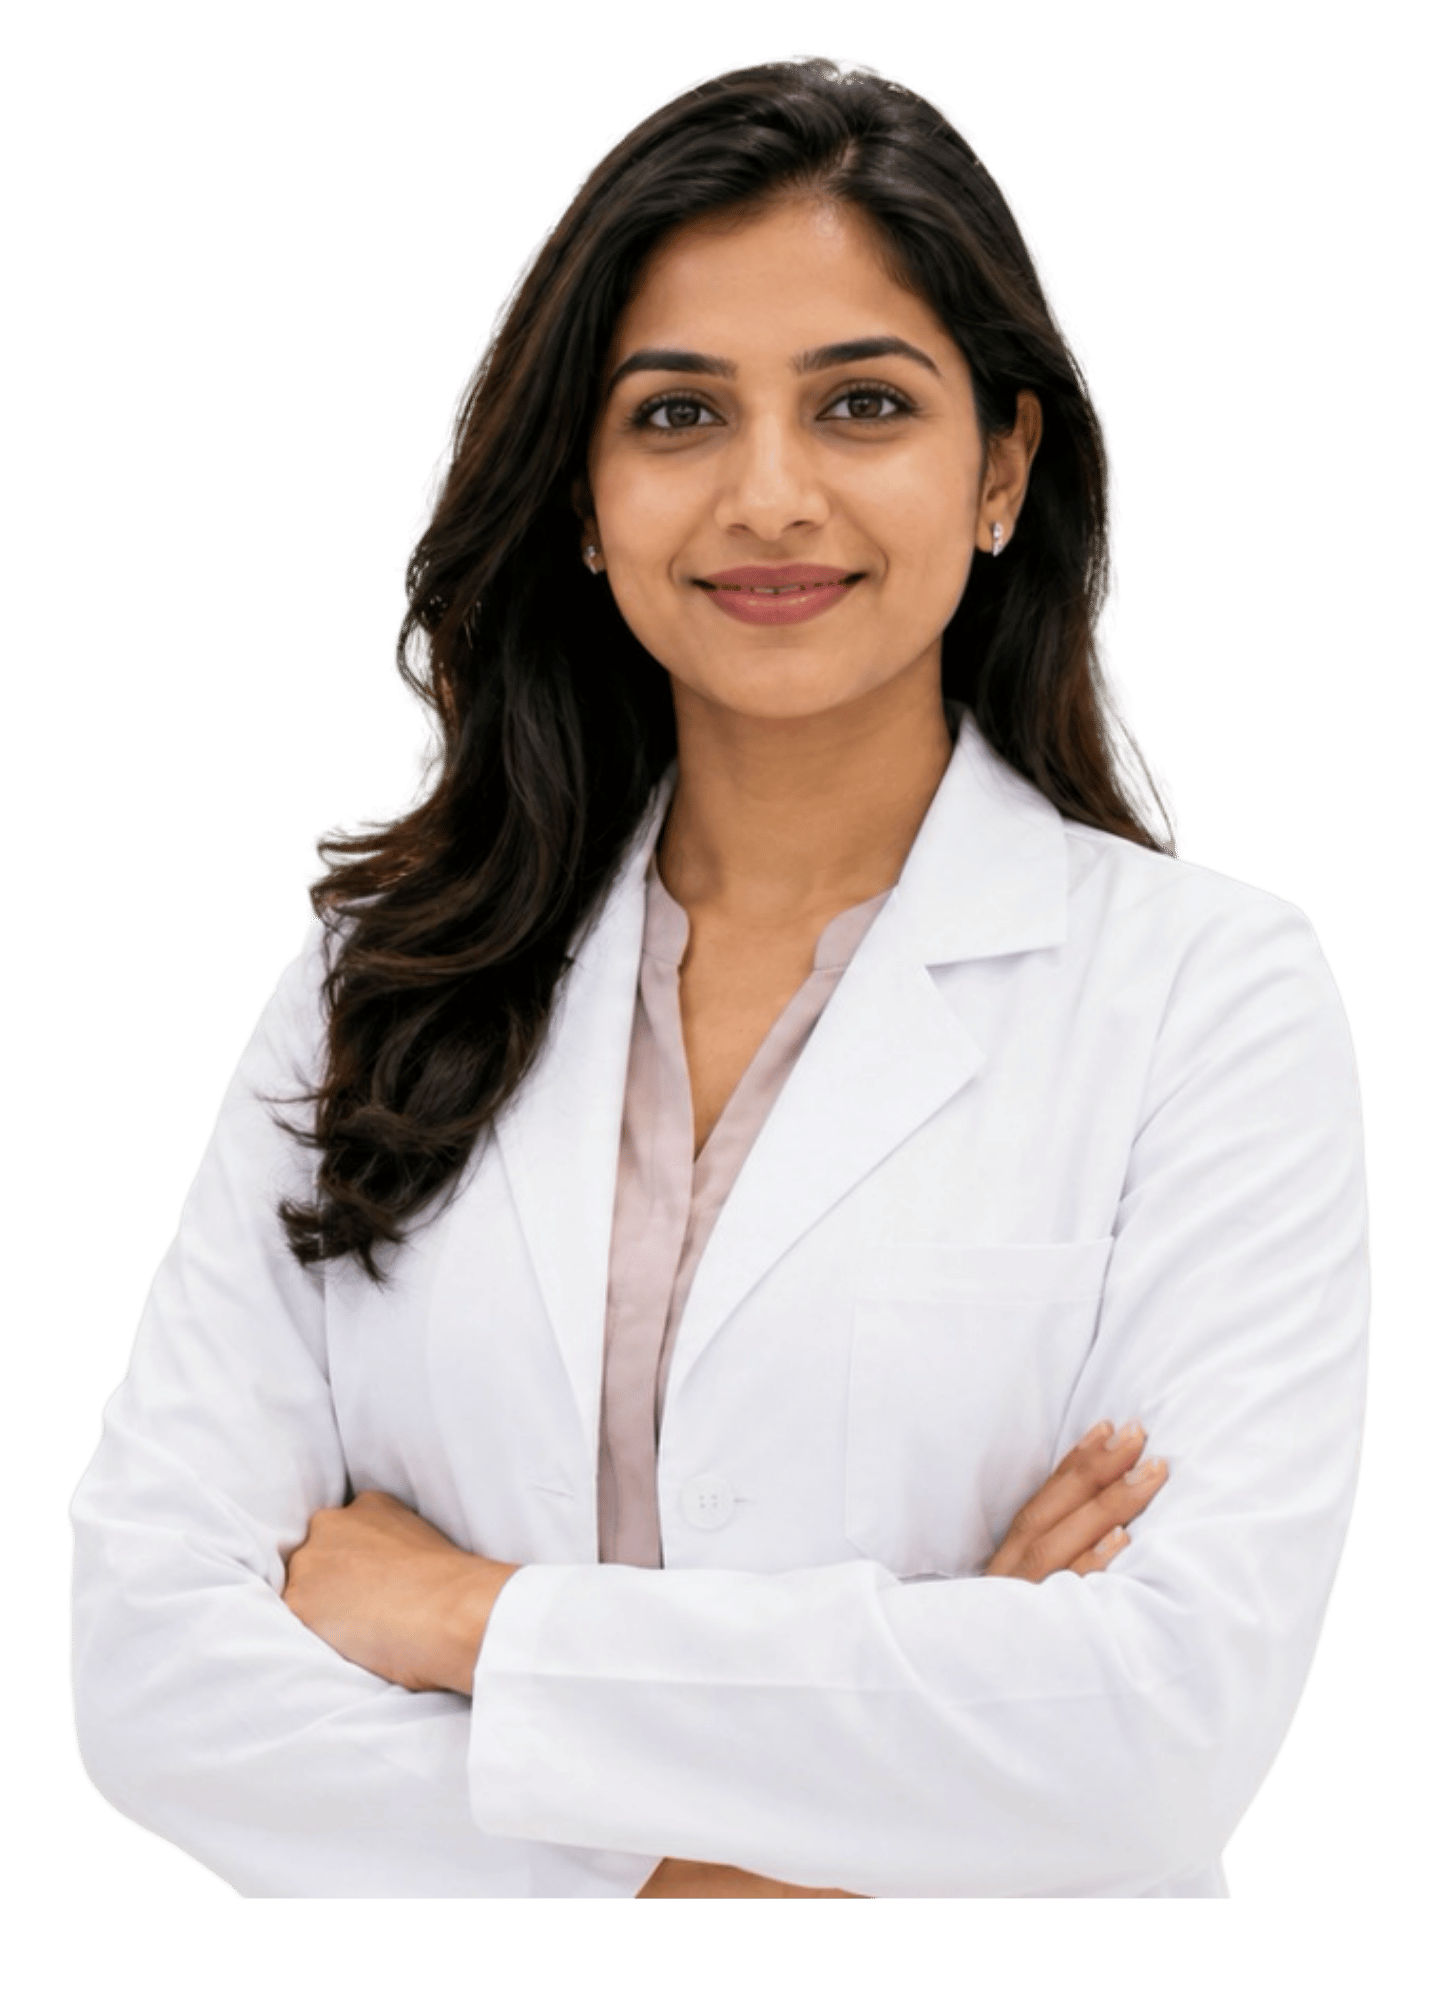
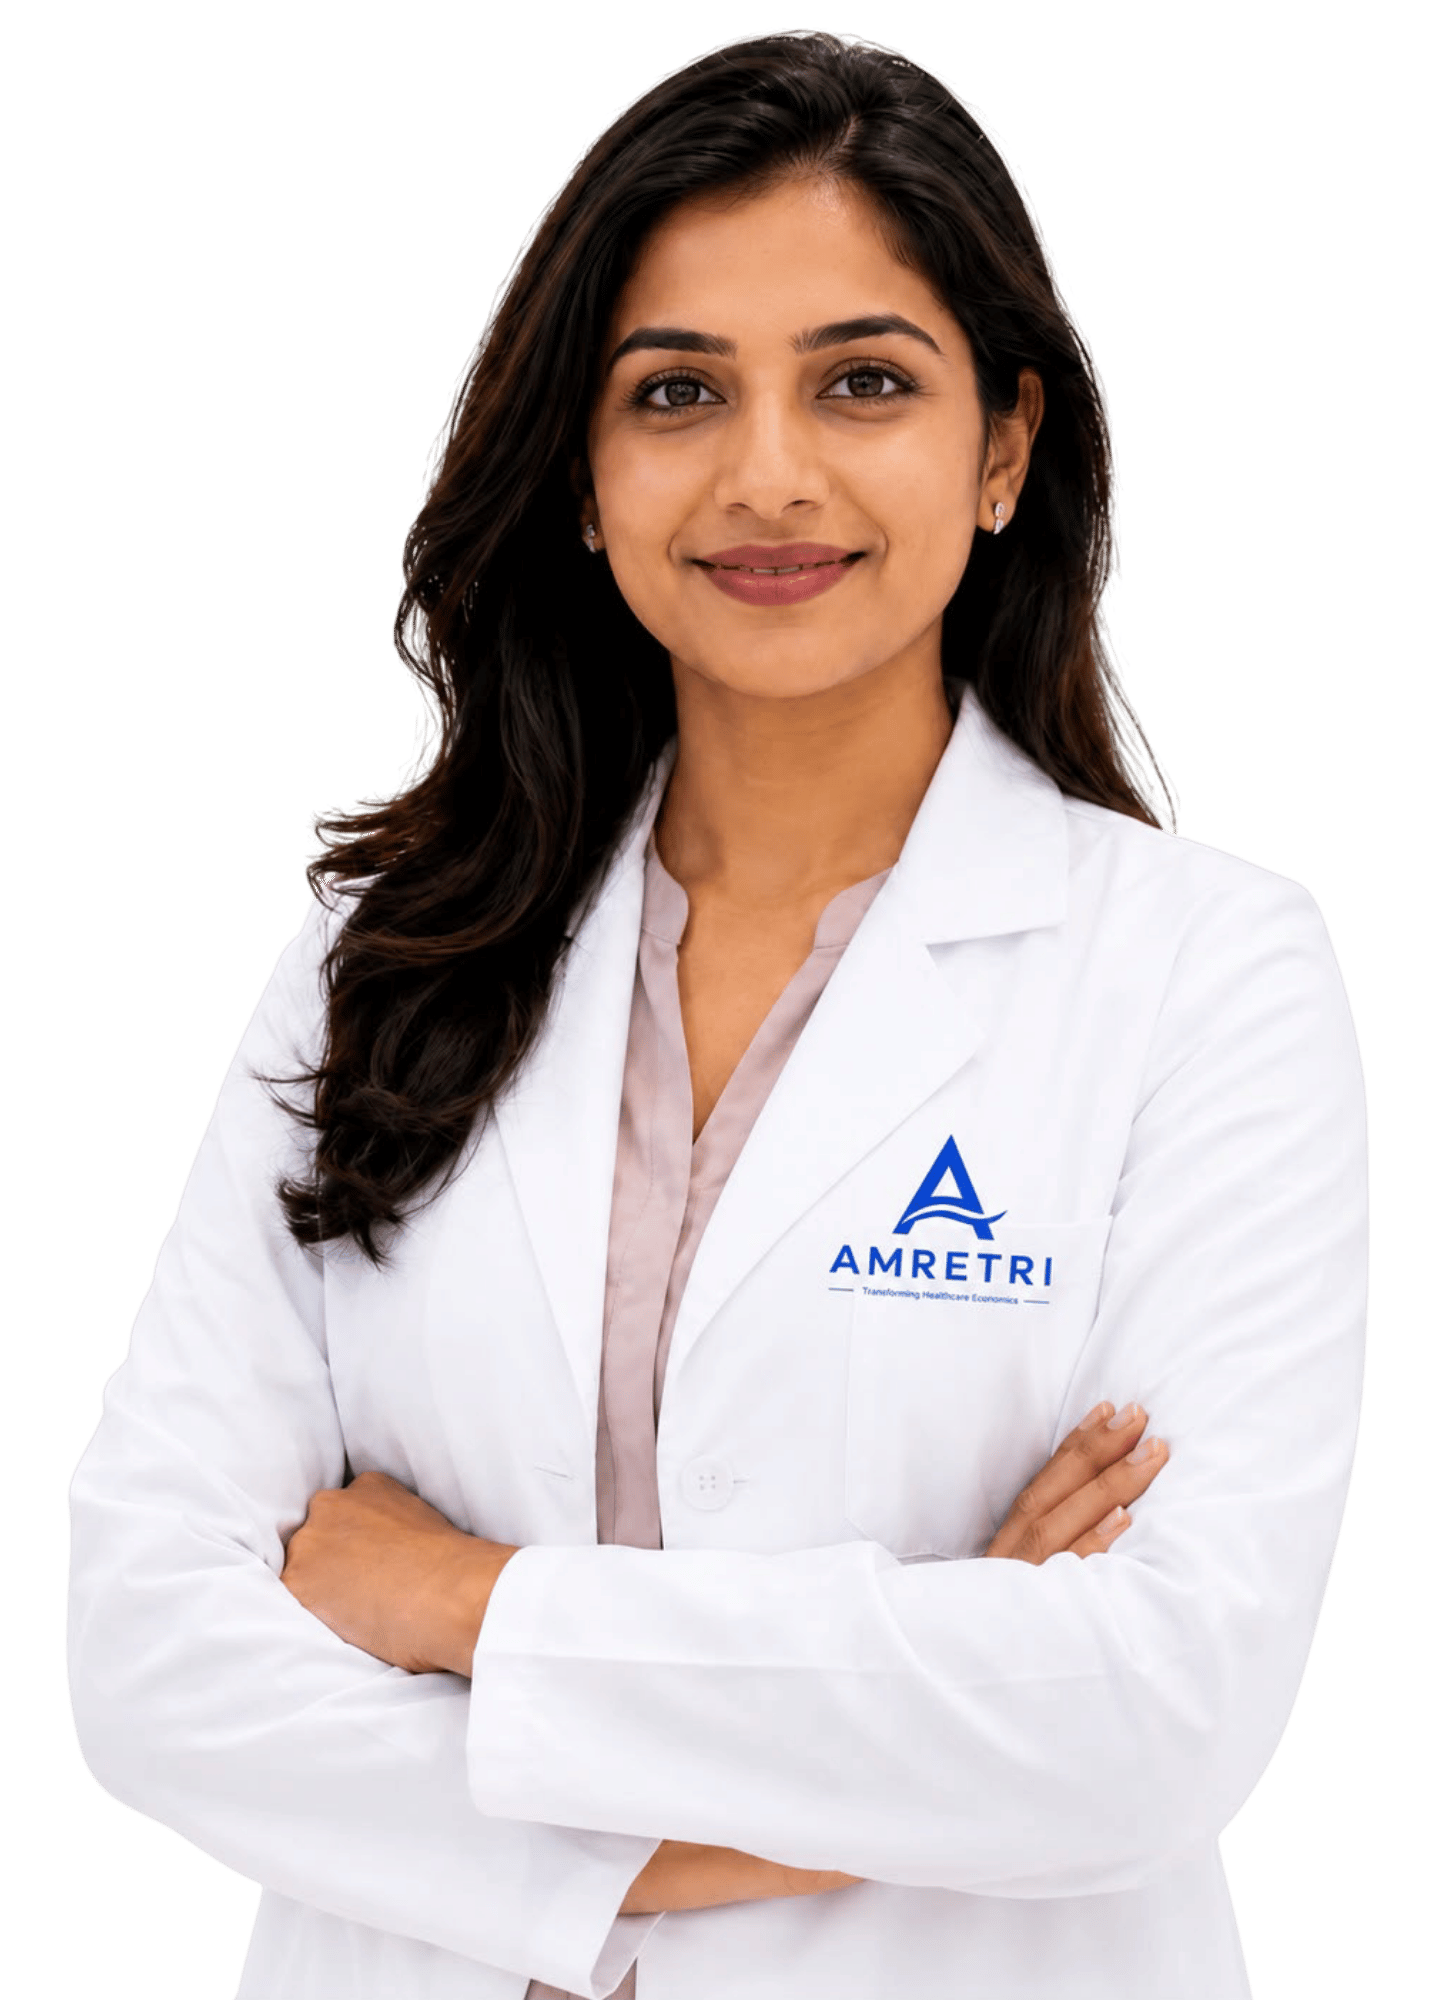
add animation and fix mobile view

diff --git a/src/routes/hospital-pharmacy-acquisition-management-services.tsx b/src/routes/hospital-pharmacy-acquisition-management-services.tsx
@@ -337,7 +337,12 @@ function PharmacyServicesPage() {
           {/* Problems Bento Grid */}
           <div className="mt-16 grid gap-6 md:grid-cols-2 lg:grid-cols-3">
             {problemsAndSolutions.map((item, idx) => (
-              <Reveal key={idx} variant="up" className="flex flex-col justify-between rounded-3xl border border-border bg-card p-6 shadow-sm hover:shadow-md transition">
+              <Reveal
+                key={idx}
+                delay={(idx % 3) * 80}
+                variant={idx % 3 === 0 ? "left" : idx % 3 === 1 ? "scale" : "right"}
+                className="flex flex-col justify-between rounded-3xl border border-border bg-card p-6 shadow-sm hover:shadow-md transition"
+              >
                 <div>
                   <div className="flex items-center gap-3">
                     <span className="grid h-10 w-10 place-items-center rounded-xl bg-rose-50 text-rose-500">
@@ -394,14 +399,21 @@ function PharmacyServicesPage() {
 
             {/* Right Services Grid */}
             <div className="lg:col-span-7">
-              <Reveal variant="right" className="grid gap-6 sm:grid-cols-2">
+              <div className="grid gap-6 sm:grid-cols-2">
                 {services.map((s, idx) => (
-                  <div key={idx} className="rounded-2xl border border-border bg-secondary/20 p-5 hover:bg-secondary/40 transition">
-                    <h3 className="text-sm font-bold text-ink">{s.title}</h3>
-                    <p className="mt-2 text-xs leading-relaxed text-ink-soft">{s.desc}</p>
-                  </div>
+                  <Reveal
+                    key={idx}
+                    delay={(idx % 2) * 80}
+                    variant={idx % 2 === 0 ? "left" : "right"}
+                    className="rounded-2xl border border-border bg-secondary/20 p-5 hover:bg-secondary/40 transition flex flex-col justify-between"
+                  >
+                    <div>
+                      <h3 className="text-sm font-bold text-ink">{s.title}</h3>
+                      <p className="mt-2 text-xs leading-relaxed text-ink-soft">{s.desc}</p>
+                    </div>
+                  </Reveal>
                 ))}
-              </Reveal>
+              </div>
             </div>
 
           </div>
@@ -422,7 +434,12 @@ function PharmacyServicesPage() {
           {/* Timeline steps */}
           <div className="mt-16 grid gap-8 md:grid-cols-2 lg:grid-cols-3 xl:grid-cols-4">
             {steps.map((st, idx) => (
-              <Reveal key={idx} variant="up" className="relative flex flex-col justify-between rounded-3xl border border-white/10 bg-white/5 p-6 hover:bg-white/10 transition">
+              <Reveal
+                key={idx}
+                delay={(idx % 4) * 80}
+                variant={idx % 2 === 0 ? "left" : "right"}
+                className="relative flex flex-col justify-between rounded-3xl border border-white/10 bg-white/5 p-6 hover:bg-white/10 transition"
+              >
                 <div>
                   <span className="inline-block rounded-lg bg-brand px-2.5 py-1 text-xs font-bold tracking-wider text-white uppercase">
                     Phase 0{idx + 1}
@@ -654,17 +671,24 @@ function PharmacyServicesPage() {
               { label: "Hospital Pharmacy Compliance & Audit Services", href: "#proposal-form" },
               { label: "Hospital Pharmacy Consulting & Profit Improvement Services", href: "#proposal-form" }
             ].map((link, idx) => (
-              <a
+              <Reveal
                 key={idx}
-                href={link.href}
-                className="flex flex-col justify-between rounded-2xl border border-border bg-card p-5 shadow-sm transition hover:shadow-md hover:border-brand/35 hover:scale-[1.02]"
+                delay={(idx % 5) * 80}
+                variant={idx % 3 === 0 ? "left" : idx % 3 === 1 ? "scale" : "right"}
+                className="flex"
               >
-                <span className="text-ink leading-snug">{link.label}</span>
-                <span className="mt-4 inline-flex items-center justify-center gap-1 text-[11px] text-brand font-bold uppercase tracking-wider">
-                  Learn More
-                  <ArrowUpRight className="h-3 w-3" />
-                </span>
-              </a>
+                <a
+                  key={idx}
+                  href={link.href}
+                  className="flex w-full flex-col justify-between rounded-2xl border border-border bg-card p-5 shadow-sm transition hover:shadow-md hover:border-brand/35 hover:scale-[1.02]"
+                >
+                  <span className="text-ink leading-snug">{link.label}</span>
+                  <span className="mt-4 inline-flex items-center justify-center gap-1 text-[11px] text-brand font-bold uppercase tracking-wider">
+                    Learn More
+                    <ArrowUpRight className="h-3 w-3" />
+                  </span>
+                </a>
+              </Reveal>
             ))}
           </div>
         </div>

diff --git a/src/routes/__root.tsx b/src/routes/__root.tsx
@@ -7,7 +7,8 @@ import {
   HeadContent,
   Scripts,
 } from "@tanstack/react-router";
-import { type ReactNode } from "react";
+import { useEffect, type ReactNode } from "react";
+import Lenis from "lenis";
 
 import appCss from "../styles.css?url";
 
@@ -116,6 +117,35 @@ function RootShell({ children }: { children: ReactNode }) {
 
 function RootComponent() {
   const { queryClient } = Route.useRouteContext();
+
+  useEffect(() => {
+    // Initialize Lenis smooth scroll on client side
+    const lenis = new Lenis({
+      duration: 1.1,
+      easing: (t) => Math.min(1, 1.001 - Math.pow(2, -10 * t)), // easeOutExpo
+      orientation: "vertical",
+      gestureOrientation: "vertical",
+      smoothWheel: true,
+      wheelMultiplier: 1.05,
+    });
+
+    let rafId: number;
+    function raf(time: number) {
+      lenis.raf(time);
+      rafId = requestAnimationFrame(raf);
+    }
+    rafId = requestAnimationFrame(raf);
+
+    // Sync scroll restoration
+    if ("scrollRestoration" in window.history) {
+      window.history.scrollRestoration = "manual";
+    }
+
+    return () => {
+      cancelAnimationFrame(rafId);
+      lenis.destroy();
+    };
+  }, []);
 
   return (
     <QueryClientProvider client={queryClient}>

diff --git a/src/routeTree.gen.ts b/src/routeTree.gen.ts
@@ -9,8 +9,15 @@
 // Additionally, you should also exclude this file from your linter and/or formatter to prevent it from being checked or modified.
 
 import { Route as rootRouteImport } from './routes/__root'
+import { Route as HospitalPharmacyAcquisitionManagementServicesRouteImport } from './routes/hospital-pharmacy-acquisition-management-services'
 import { Route as IndexRouteImport } from './routes/index'
 
+const HospitalPharmacyAcquisitionManagementServicesRoute =
+  HospitalPharmacyAcquisitionManagementServicesRouteImport.update({
+    id: '/hospital-pharmacy-acquisition-management-services',
+    path: '/hospital-pharmacy-acquisition-management-services',
+    getParentRoute: () => rootRouteImport,
+  } as any)
 const IndexRoute = IndexRouteImport.update({
   id: '/',
   path: '/',
@@ -19,28 +26,39 @@ const IndexRoute = IndexRouteImport.update({
 
 export interface FileRoutesByFullPath {
   '/': typeof IndexRoute
+  '/hospital-pharmacy-acquisition-management-services': typeof HospitalPharmacyAcquisitionManagementServicesRoute
 }
 export interface FileRoutesByTo {
   '/': typeof IndexRoute
+  '/hospital-pharmacy-acquisition-management-services': typeof HospitalPharmacyAcquisitionManagementServicesRoute
 }
 export interface FileRoutesById {
   __root__: typeof rootRouteImport
   '/': typeof IndexRoute
+  '/hospital-pharmacy-acquisition-management-services': typeof HospitalPharmacyAcquisitionManagementServicesRoute
 }
 export interface FileRouteTypes {
   fileRoutesByFullPath: FileRoutesByFullPath
-  fullPaths: '/'
+  fullPaths: '/' | '/hospital-pharmacy-acquisition-management-services'
   fileRoutesByTo: FileRoutesByTo
-  to: '/'
-  id: '__root__' | '/'
+  to: '/' | '/hospital-pharmacy-acquisition-management-services'
+  id: '__root__' | '/' | '/hospital-pharmacy-acquisition-management-services'
   fileRoutesById: FileRoutesById
 }
 export interface RootRouteChildren {
   IndexRoute: typeof IndexRoute
+  HospitalPharmacyAcquisitionManagementServicesRoute: typeof HospitalPharmacyAcquisitionManagementServicesRoute
 }
 
 declare module '@tanstack/react-router' {
   interface FileRoutesByPath {
+    '/hospital-pharmacy-acquisition-management-services': {
+      id: '/hospital-pharmacy-acquisition-management-services'
+      path: '/hospital-pharmacy-acquisition-management-services'
+      fullPath: '/hospital-pharmacy-acquisition-management-services'
+      preLoaderRoute: typeof HospitalPharmacyAcquisitionManagementServicesRouteImport
+      parentRoute: typeof rootRouteImport
+    }
     '/': {
       id: '/'
       path: '/'
@@ -53,6 +71,8 @@ declare module '@tanstack/react-router' {
 
 const rootRouteChildren: RootRouteChildren = {
   IndexRoute: IndexRoute,
+  HospitalPharmacyAcquisitionManagementServicesRoute:
+    HospitalPharmacyAcquisitionManagementServicesRoute,
 }
 export const routeTree = rootRouteImport
   ._addFileChildren(rootRouteChildren)

diff --git a/src/styles.css b/src/styles.css
@@ -249,3 +249,24 @@
   .hover-tilt:hover,
   .hover-glow:hover { transform: none; box-shadow: none; }
 }
+
+/* Lenis smooth scrolling rules */
+html.lenis, html.lenis body {
+  height: auto;
+}
+
+.lenis.lenis-smooth {
+  scroll-behavior: auto !important;
+}
+
+.lenis.lenis-smooth [data-lenis-prevent] {
+  overscroll-behavior: contain;
+}
+
+.lenis.lenis-stopped {
+  overflow: hidden;
+}
+
+.lenis.lenis-scrolling iframe {
+  pointer-events: none;
+}

diff --git a/src/components/site/Reveal.tsx b/src/components/site/Reveal.tsx
@@ -30,25 +30,28 @@ export function Reveal({
           }
         });
       },
-      { threshold: 0.15, rootMargin: "0px 0px -40px 0px" }
+      { threshold: 0.05, rootMargin: "0px 0px 80px 0px" }
     );
     io.observe(el);
     return () => io.disconnect();
   }, []);
 
-  const base = "transition-all duration-700 ease-out will-change-transform";
+  const base = "transition-all duration-[1000ms] will-change-transform";
   const hidden = {
-    up: "opacity-0 translate-y-8",
-    left: "opacity-0 -translate-x-8",
-    right: "opacity-0 translate-x-8",
-    scale: "opacity-0 scale-95",
+    up: "opacity-0 translate-y-16",
+    left: "opacity-0 -translate-x-24",
+    right: "opacity-0 translate-x-24",
+    scale: "opacity-0 scale-90",
   }[variant];
   const visible = "opacity-100 translate-x-0 translate-y-0 scale-100";
 
   return (
     <Tag
       ref={ref as never}
-      style={{ transitionDelay: `${delay}ms` }}
+      style={{
+        transitionDelay: `${delay}ms`,
+        transitionTimingFunction: "cubic-bezier(0.16, 1, 0.3, 1)",
+      }}
       className={`${base} ${shown ? visible : hidden} ${className}`}
     >
       {children}

diff --git a/src/components/site/WhyUs.tsx b/src/components/site/WhyUs.tsx
@@ -59,8 +59,8 @@ export function WhyUs() {
               return (
                 <Reveal
                   key={it.title}
-                  delay={i * 100}
-                  variant="up"
+                  delay={(i % 2) * 80}
+                  variant={i % 2 === 0 ? "left" : "right"}
                   className="group rounded-2xl border border-border bg-card p-6 hover-lift hover:border-brand/40"
                 >
                   <div className="grid h-10 w-10 place-items-center rounded-xl bg-brand/10 text-brand transition-transform duration-300 group-hover:scale-110 group-hover:bg-brand group-hover:text-white">
@@ -87,7 +87,12 @@ export function WhyUs() {
 
           <div className="mt-10 grid grid-cols-2 gap-px overflow-hidden rounded-2xl bg-white/15 md:grid-cols-3">
             {stats.map((s, i) => (
-              <Reveal key={s.label} delay={i * 80} variant="up" className="bg-brand p-6 transition hover:bg-brand-deep">
+              <Reveal
+                key={s.label}
+                delay={(i % 3) * 80}
+                variant={i % 3 === 0 ? "left" : i % 3 === 1 ? "scale" : "right"}
+                className="bg-brand p-6 transition hover:bg-brand-deep"
+              >
                 <div className="text-4xl font-extrabold md:text-5xl transition-transform duration-300 hover:scale-105 origin-left">{s.value}</div>
                 <div className="mt-2 text-sm font-semibold">{s.label}</div>
                 <div className="mt-1 text-xs text-white/70">{s.sub}</div>

diff --git a/src/components/site/CtaFooter.tsx b/src/components/site/CtaFooter.tsx
@@ -1,5 +1,6 @@
 import { Mail, Phone, ArrowUpRight, Facebook, Linkedin, Instagram, Twitter } from "lucide-react";
 import logoAsset from "@/assets/amretri-logo.png";
+import { Reveal } from "./Reveal";
 
 export function CtaFooter() {
   return (
@@ -11,7 +12,7 @@ export function CtaFooter() {
           <div className="absolute right-16 top-4 h-4 w-4 bg-white/70" />
           <div className="absolute right-6 top-20 h-6 w-6 bg-white/80" />
         </div>
-        <div className="relative mx-auto max-w-5xl px-6 text-center">
+        <Reveal variant="scale" className="relative mx-auto max-w-5xl px-6 text-center">
           <h2 className="text-4xl font-extrabold leading-tight md:text-6xl">
             Your trusted healthcare operations partner.
           </h2>
@@ -28,7 +29,7 @@ export function CtaFooter() {
               <ArrowUpRight className="h-4 w-4" />
             </span>
           </a>
-        </div>
+        </Reveal>
       </section>
 
       <footer className="bg-brand-soft text-white">

diff --git a/src/components/site/WhoWeServe.tsx b/src/components/site/WhoWeServe.tsx
@@ -40,7 +40,8 @@ export function WhoWeServe() {
             <Reveal
               key={p.title}
               as="article"
-              delay={(i % 3) * 100}
+              delay={(i % 3) * 80}
+              variant={i % 3 === 0 ? "left" : i % 3 === 1 ? "up" : "right"}
               className="group overflow-hidden rounded-3xl border border-border bg-card hover-lift hover:border-brand/40"
             >
               <div className="aspect-[4/3] overflow-hidden">

diff --git a/src/components/site/Solutions.tsx b/src/components/site/Solutions.tsx
@@ -66,7 +66,7 @@ export function Solutions() {
                 key={s.title}
                 as="article"
                 delay={i * 120}
-                variant="up"
+                variant={i === 0 ? "left" : i === 1 ? "scale" : "right"}
                 className="group relative flex flex-col rounded-3xl border border-border bg-card p-8 hover-lift hover:border-brand"
               >
                 <div className="flex items-center justify-between">